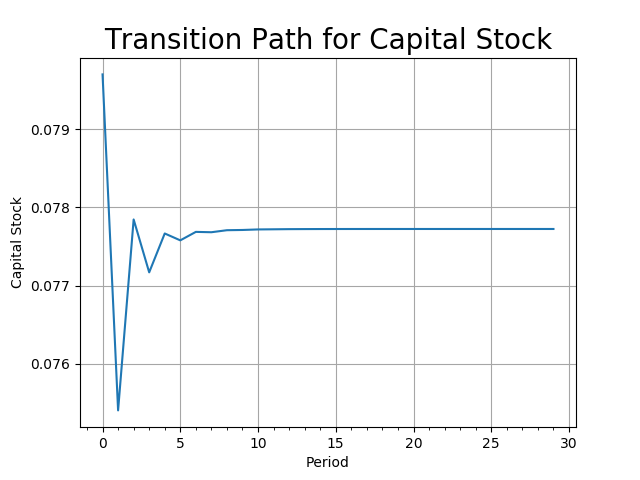
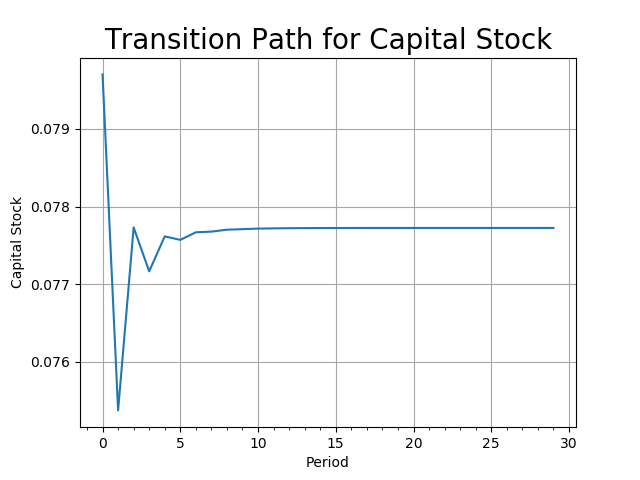
fixed econ code

diff --git a/ProbSets/Econ/Week_1/rzhang_OLG.py b/ProbSets/Econ/Week_1/rzhang_OLG.py
@@ -40,7 +40,7 @@ def get_MU(c, sigma):
         return c**(-sigma)
 
 def EulErr(bvec, *args):
-    delta, alpha, beta, sigma, A, l1, l2, l3, r2, r3, w1, w2 = args
+    delta, alpha, beta, sigma, A, l1, l2, l3, r2, r3, w1, w2, w3 = args
     b2 = bvec[0]
     b3 = bvec[1]
     if r2 == -1 and w1 == -1:
@@ -50,9 +50,10 @@ def EulErr(bvec, *args):
         r3 = r2
         w1 = get_w(K, L, alpha, A)
         w2 = w1
+        w3 = w1
     MU_c1 = get_MU(get_c(0, b2, 0, l1*w1), sigma)
     MU_c2 = get_MU(get_c(b2, b3, r2, l2*w2), sigma)
-    MU_c3 = get_MU(get_c(b3, 0, r3, l3*w2), sigma)
+    MU_c3 = get_MU(get_c(b3, 0, r3, l3*w3), sigma)
     err1 = MU_c1 - beta*(1+r2)*MU_c2
     err2 = MU_c2 - beta*(1+r3)*MU_c3
     err_vec = np.array([err1, err2])
@@ -61,7 +62,7 @@ def EulErr(bvec, *args):
 def SS_OLG(b_args, b2_init, b3_init, labor):
     delta, alpha, beta, sigma, A = b_args
     b_init = np.array([b2_init, b3_init])
-    eul_args = (delta, alpha, beta, sigma, A, labor[0], labor[1], labor[2], -1, -1, -1, -1)
+    eul_args = (delta, alpha, beta, sigma, A, labor[0], labor[1], labor[2], -1, -1, -1, -1, -1)
     b_result = opt.root(EulErr, b_init, args=(eul_args))
     b2 = b_result.x[0]
     b3 = b_result.x[1]
@@ -102,9 +103,10 @@ def get_K(b_init, b_args, b_SS, labor):
             l3 = labor[2]
             w1 = get_w(Kvec[i-1], L, alpha, A)
             w2 = get_w(Kvec[i], L, alpha, A)
+            w3 = get_w(Kvec[i+1], L, alpha, A)
             r2 = get_r(Kvec[i], L, alpha, A, delta)
             r3 = get_r(Kvec[i+1], L, alpha, A, delta)
-            pass_args = (delta, alpha, beta, sigma, A, l1, l2, l3, r2, r3, w1, w2)
+            pass_args = (delta, alpha, beta, sigma, A, l1, l2, l3, r2, r3, w1, w2, w3)
             b_result = opt.root(EulErr, b_init, args=(pass_args))
             b2vec[i] = b_result.x[0]
             b3vec[i+1] = b_result.x[1]
@@ -199,5 +201,5 @@ plt.close
 '''
 As shown by the image "timepathiteration.png", the equilibrium time path of
 the aggregate capital stock oscillates around the steady state, and converges
-by period 12. 
+by period 12.
 '''
